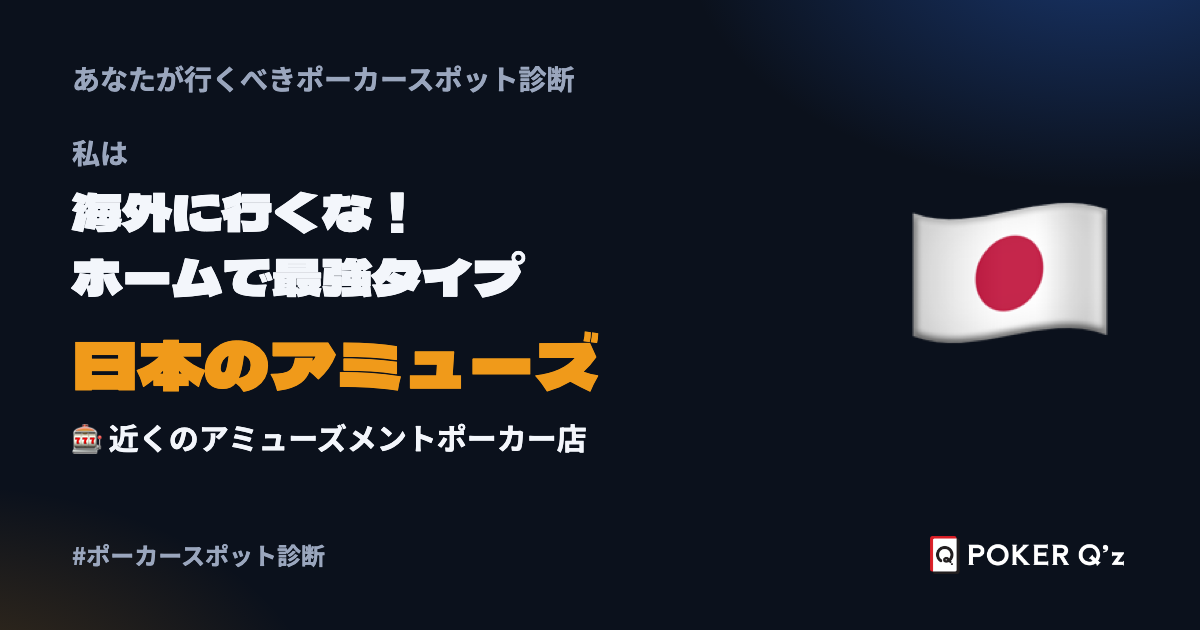
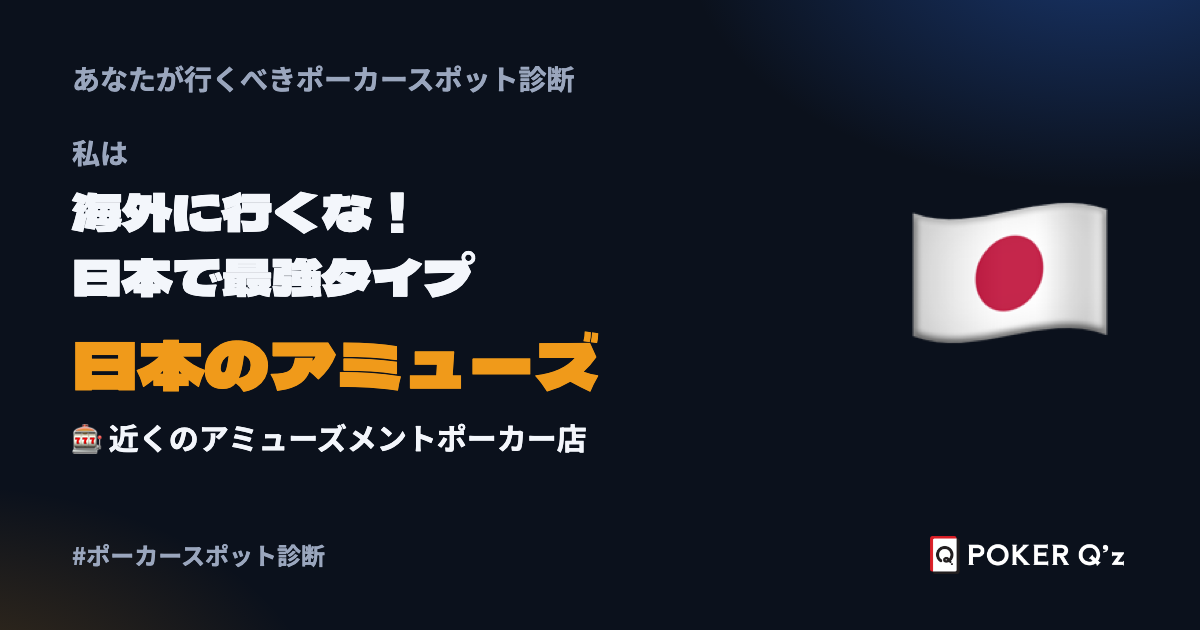
Fix option drift on iOS, remove save buttons, retry only under plan, wording fixes

Changed region(s): [[0.0617, 0.3921, 0.4625, 0.4825]]

diff --git a/index.html b/index.html
@@ -46,6 +46,8 @@ h1 em{font-style:normal;color:var(--orange)}
 .crit{display:flex;flex-wrap:wrap;justify-content:center;gap:6px}
 .crit span{font-size:12px;font-weight:700;padding:4px 10px;border-radius:99px;background:var(--card);border:1px solid var(--line)}
 .flags{font-size:26px;letter-spacing:2px;line-height:1.4;white-space:nowrap}
+.btn[hidden]{display:none}
+html.lock,html.lock body{height:100%;overflow:hidden}
 .btn{display:block;width:100%;padding:17px 18px;border-radius:14px;font-weight:900;font-size:17px;text-align:center;text-decoration:none}
 .btn.main{background:var(--orange);color:#1a1205;box-shadow:0 6px 0 #a7650a}
 .btn.main:active{transform:translateY(3px);box-shadow:0 3px 0 #a7650a}
@@ -54,7 +56,7 @@ h1 em{font-style:normal;color:var(--orange)}
 .note{font-size:11px;color:var(--muted);line-height:1.7;text-align:center;margin-top:14px}
 
 /* chat */
-.app.quiz{height:100dvh;min-height:0;padding-bottom:calc(16vh + env(safe-area-inset-bottom))} /* 指が届きやすいよう、選択肢の下に余白 */
+.app.quiz{position:fixed;top:0;bottom:0;left:0;right:0;height:auto;min-height:0;padding-bottom:calc(16vh + env(safe-area-inset-bottom))} /* 指が届きやすいよう、選択肢の下に余白 */
 .app.quiz .top{margin-bottom:10px}
 #s-quiz{min-height:0}
 .prog{display:flex;align-items:center;gap:10px;margin-bottom:6px;flex:none}
@@ -278,10 +280,7 @@ footer{margin-top:26px;font-size:11px;color:var(--muted);line-height:1.8;text-al
 
     <div class="actions">
       <a class="btn x" id="shareX" href="https://x.com/intent/post" target="_blank" rel="noopener">𝕏 で結果をポストする</a>
-      <div class="row2">
-        <button class="btn sub" id="saveImg">結果画像を保存</button>
-        <button class="btn sub" id="retry">もう一度診断</button>
-      </div>
+      <button class="btn sub" id="tryMine" hidden>わたしも診断する</button>
     </div>
   </section>
 
@@ -295,7 +294,7 @@ footer{margin-top:26px;font-size:11px;color:var(--muted);line-height:1.8;text-al
       <div id="pDays"></div>
       <div class="pbox"><h4>お金</h4><div id="pMoney"></div></div>
       <div class="pbox"><h4>出発までに</h4><ul id="pPrep"></ul></div>
-      <div class="row2 pbtn"><button class="btn sub" id="savePlanImg">画像で保存</button><button class="btn sub" id="savePlanTxt">テキストで保存</button></div>
+      <button class="btn sub pbtn" id="retry">もう一度診断</button>
     </div>
   </section>
 </div>
@@ -387,11 +386,11 @@ const SPOTS = {
     why:['南米屈指のビーチリゾート。ホテルとカジノが一体','週ごとの大会と、年1〜2回の Enjoy Poker Series がある','乗り継いで片道30時間以上。まさに地球の裏側'],
     season:'Enjoy Poker Series は年1〜2回（時期は年ごとに違う）。ビーチは南半球の夏（12〜2月）が最盛期。',
     tip:'地球の裏側まで行くなら、負けて帰るのはもったいない。POKER Q\'z で準備は万全に。'},
-  jpn:{flag:'🇯🇵',name:'日本のアミューズ',place:'国内のアミューズメントポーカー',type:'海外に行くな！ ホームで最強タイプ',
+  jpn:{flag:'🇯🇵',name:'日本のアミューズ',place:'国内のアミューズメントポーカー',type:'海外に行くな！ 日本で最強タイプ',
     catch:'あなたは海外に行かなくていい。まずは国内で、誰よりも強くなろう。',
     why:['お金を賭けない（換金なしの）お店なので、気楽にたくさん打てる','お店のトーナメントで、気軽に腕試しができる','言葉も移動も心配ゼロ。上達に集中できる'],
     season:'平日の夜でも週末でも。思い立ったその日に行ける。',
-    tip:'ホームで最強を目指すなら、まずは毎日の積み重ね。POKER Q\'z で1日10問から始めよう。'},
+    tip:'日本で最強を目指すなら、まずは毎日の積み重ね。POKER Q\'z で1日10問から始めよう。'},
 };
 const ORDER = ['tpe','icn','cju','mnl','pnh','mfm','las','lax','bcn','mel','pun','jpn']; // 同点のときの優先順
 
@@ -504,7 +503,7 @@ const QS = [
     {e:'🔥',t:'$5/$10 以上',c:'$5/$10以上',r:'高めのレートが立つ会場にしぼるね。',f:OUT(CASH_HIGH)},
   ]},
   {id:'rake', k:'レーキ', show:isCash, q:'レーキ（場代）はどれくらい気にする？', a:[
-    {e:'🧮',t:'最優先。とにかく安く',c:'レーキ最優先',r:'レーキが軽い店を優先するね。',f:(k,a,ans)=> (rakeScore(k,ans)-3)*2},
+    {e:'🧮',t:'最優先。とにかく安く',c:'レーキ最優先',r:'レーキが安いカジノを優先するね。',f:(k,a,ans)=> (rakeScore(k,ans)-3)*2},
     {e:'⚖',t:'ほかとのバランスで',c:'レーキはほどほど',r:'了解。ほかの条件と合わせて見るね。',f:(k,a,ans)=> (rakeScore(k,ans)-3)*0.7},
     {e:'🎰',t:'気にしない。雰囲気優先',c:'雰囲気優先',r:'豪華なカジノの雰囲気を優先するね。',f:(k)=> (GLAM[k]-3)*1.5},
   ]},
@@ -629,7 +628,7 @@ function makePlan(k, ans){
   const s = SPOTS[k], V = pickVenue(k, ans), v = V.main, P = PLAN[k];
   const name = v.sh || v.n;
   if (k==='jpn') {
-    return {title:'ホームで最強になる1か月プラン', sub:'国内・アミューズメントポーカー', days:[
+    return {title:'日本で最強になる1か月プラン', sub:'国内・アミューズメントポーカー', days:[
       {d:'毎日', items:[['☀','朝','POKER Q\'z で10問。判断のクセを毎日1つ直す']]},
       {d:'平日', items:[['🌙','夜','近くのアミューズで2時間。換金なしだから気楽に、試したいことを試す']]},
       {d:'週末', items:[['🏆','昼','お店のトーナメントに出て腕試し'],['🍜','夜','仲間と反省会。今日のハンドをアプリで復習']]},
@@ -692,9 +691,13 @@ function basePath(){ try { return location.pathname || ''; } catch(e){ return ''
 
 let ans = {}, cur = null, result = null, busy = false, runId = 0, fromShare = false;
 
-function show(id){ document.querySelectorAll('.screen').forEach(s=>s.classList.toggle('on', s.id===id)); document.querySelector('.app').classList.toggle('quiz', id==='s-quiz'); window.scrollTo(0,0); }
+function show(id){ document.querySelectorAll('.screen').forEach(s=>s.classList.toggle('on', s.id===id)); document.querySelector('.app').classList.toggle('quiz', id==='s-quiz'); document.documentElement.classList.toggle('lock', id==='s-quiz'); window.scrollTo(0,0); }
 function toBottom(){ const c = $('chat'); requestAnimationFrame(()=>{ c.scrollTo({top:c.scrollHeight, behavior:'smooth'}); }); }
 let optsMax = 0; // 選択肢エリアの高さは縮めない（ボタンの位置を固定するため）
+// 最初に、選択肢がいちばん多い質問の高さを確保しておく（途中で広がると、ボタンが上にずれるため）
+function reserveOpts(){ const o = $('opts'); o.style.minHeight = '0px'; let m = 0;
+  for (const q of QS){ o.innerHTML = q.a.map((a,i)=>`<button class="opt" data-i="${i}"><span class="e">${a.e}</span><span>${esc(a.t)}${a.s?`<small>${esc(a.s)}</small>`:''}</span></button>`).join(''); m = Math.max(m, o.scrollHeight); }
+  o.innerHTML = ''; optsMax = Math.max(m, 236); o.style.minHeight = optsMax + 'px'; }
 function toast(m){ const t=$('toast'); t.textContent=m; t.classList.add('on'); setTimeout(()=>t.classList.remove('on'),1800); }
 function esc(t){ return String(t).replace(/[&<>"]/g, c=>({'&':'&amp;','<':'&lt;','>':'&gt;','"':'&quot;'}[c])); }
 
@@ -743,14 +746,15 @@ $('opts').addEventListener('click', async e=>{
   else { ask(); }
 });
 function startQuiz(){
-  runId++; ans = {}; cur = null; busy = false; fromShare = false;
+  runId++; ans = {}; cur = null; busy = false; fromShare = false; $('tryMine').hidden = true;
   $('chat').innerHTML = ''; $('opts').innerHTML = '';
   safeReplace(basePath());
-  show('s-quiz'); ask();
+  show('s-quiz'); reserveOpts(); ask();
 }
 $('startBtn').onclick = startQuiz;
 $('restartBtn').onclick = startQuiz;
 $('retry').onclick = startQuiz;
+$('tryMine').onclick = startQuiz;
 
 async function finish(){
   const id = runId;
@@ -911,31 +915,8 @@ async function drawPlan(withLogo=true){
   x.fillStyle = '#9aa6bd'; x.font = F(700,26); x.textBaseline = 'alphabetic'; x.fillText('#' + HASHTAG, PAD, H-64);
   return c;
 }
-$('savePlanImg').onclick = async ()=>{
-  let blob;
-  try { blob = await toBlob(await drawPlan(true)); } catch(e){ try { blob = await toBlob(await drawPlan(false)); } catch(e2){ toast('この画面では保存できません'); return; } }
-  saveFile(blob, `poker-trip-plan-${result.k1}.png`);
-};
 $('openPlan').onclick = ()=> show('s-plan');
 $('backPlan').onclick = ()=> show('s-result');
-$('savePlanTxt').onclick = ()=> saveFile(new Blob([planText(result.plan)], {type:'text/plain'}), `poker-trip-plan-${result.k1}.txt`);
-$('saveImg').onclick = async ()=>{
-  let blob;
-  try { blob = await toBlob(await drawCard(true)); }
-  catch(e){ try { blob = await toBlob(await drawCard(false)); } catch(e2){ toast('この画面では保存できません'); return; } }
-  const fname = `poker-spot-${result.k1}.png`;
-  if (dlNs) { // claude.ai の Artifact で開いているときは、公開先の保存機能を使う
-    try { await dlNs.save({filename: fname, data: blob}); toast('画像を保存しました'); }
-    catch(e){ if (e && e.code === 'declined') return; toast(e && e.code === 'host_unavailable' ? 'ブラウザで開くと保存できます' : 'この画面では保存できません。スクショでどうぞ'); }
-    return;
-  }
-  const file = new File([blob], fname, {type:'image/png'});
-  if (navigator.canShare && navigator.canShare({files:[file]})) {
-    try { await navigator.share({files:[file], text:`#${HASHTAG}`}); return; } catch(e){}
-  }
-  const a = document.createElement('a'); a.href = URL.createObjectURL(blob); a.download = file.name; a.click();
-  toast('画像を保存しました');
-};
 
 // 共有リンクから来た人には結果をそのまま見せる
 let qp; try { qp = new URLSearchParams(location.search); } catch(e){ qp = new URLSearchParams(''); }
@@ -943,7 +924,7 @@ if (SPOTS[qp.get('r')]) {
   const k2 = SPOTS[qp.get('s')] && qp.get('s')!==qp.get('r') ? qp.get('s') : ORDER.find(k=>k!==qp.get('r'));
   fromShare = true;
   renderResult(qp.get('r'), k2);
-  $('retry').textContent = 'わたしも診断する';
+  $('tryMine').hidden = false;
 }
 }
 </script>

diff --git a/r/jpn.html b/r/jpn.html
@@ -3,9 +3,9 @@
 <head>
 <meta charset="utf-8">
 <meta name="viewport" content="width=device-width, initial-scale=1">
-<title>私は「海外に行くな！ ホームで最強タイプ」。行くべきポーカースポットは日本のアミューズ｜POKER Q'z</title>
+<title>私は「海外に行くな！ 日本で最強タイプ」。行くべきポーカースポットは日本のアミューズ｜POKER Q'z</title>
 <meta name="description" content="あなたが行くべきポーカースポット診断。答えるだけで、世界のカジノ・ポーカールームから判定します。">
-<meta property="og:title" content="私は「海外に行くな！ ホームで最強タイプ」。行くべきポーカースポットは日本のアミューズ">
+<meta property="og:title" content="私は「海外に行くな！ 日本で最強タイプ」。行くべきポーカースポットは日本のアミューズ">
 <meta property="og:description" content="あなたが行くべきポーカースポット診断。答えるだけで、世界のカジノ・ポーカールームから判定します。">
 <meta property="og:type" content="website">
 <meta property="og:url" content="https://cloviz-inc.github.io/pokerqz-shindan-demo/r/jpn">
